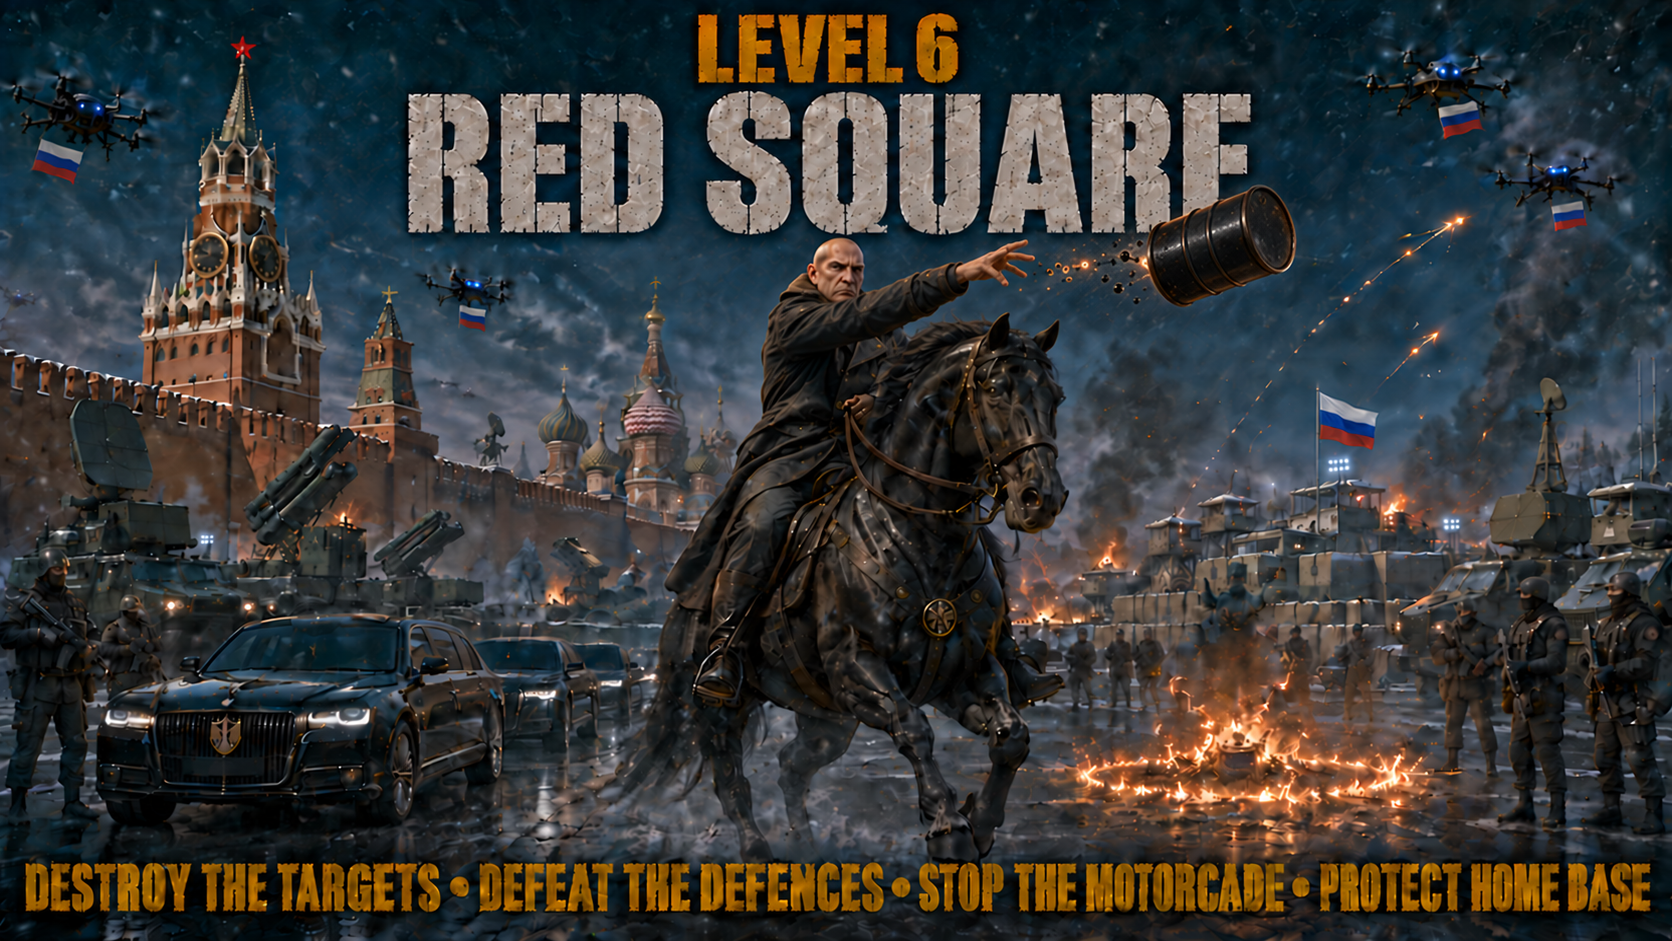
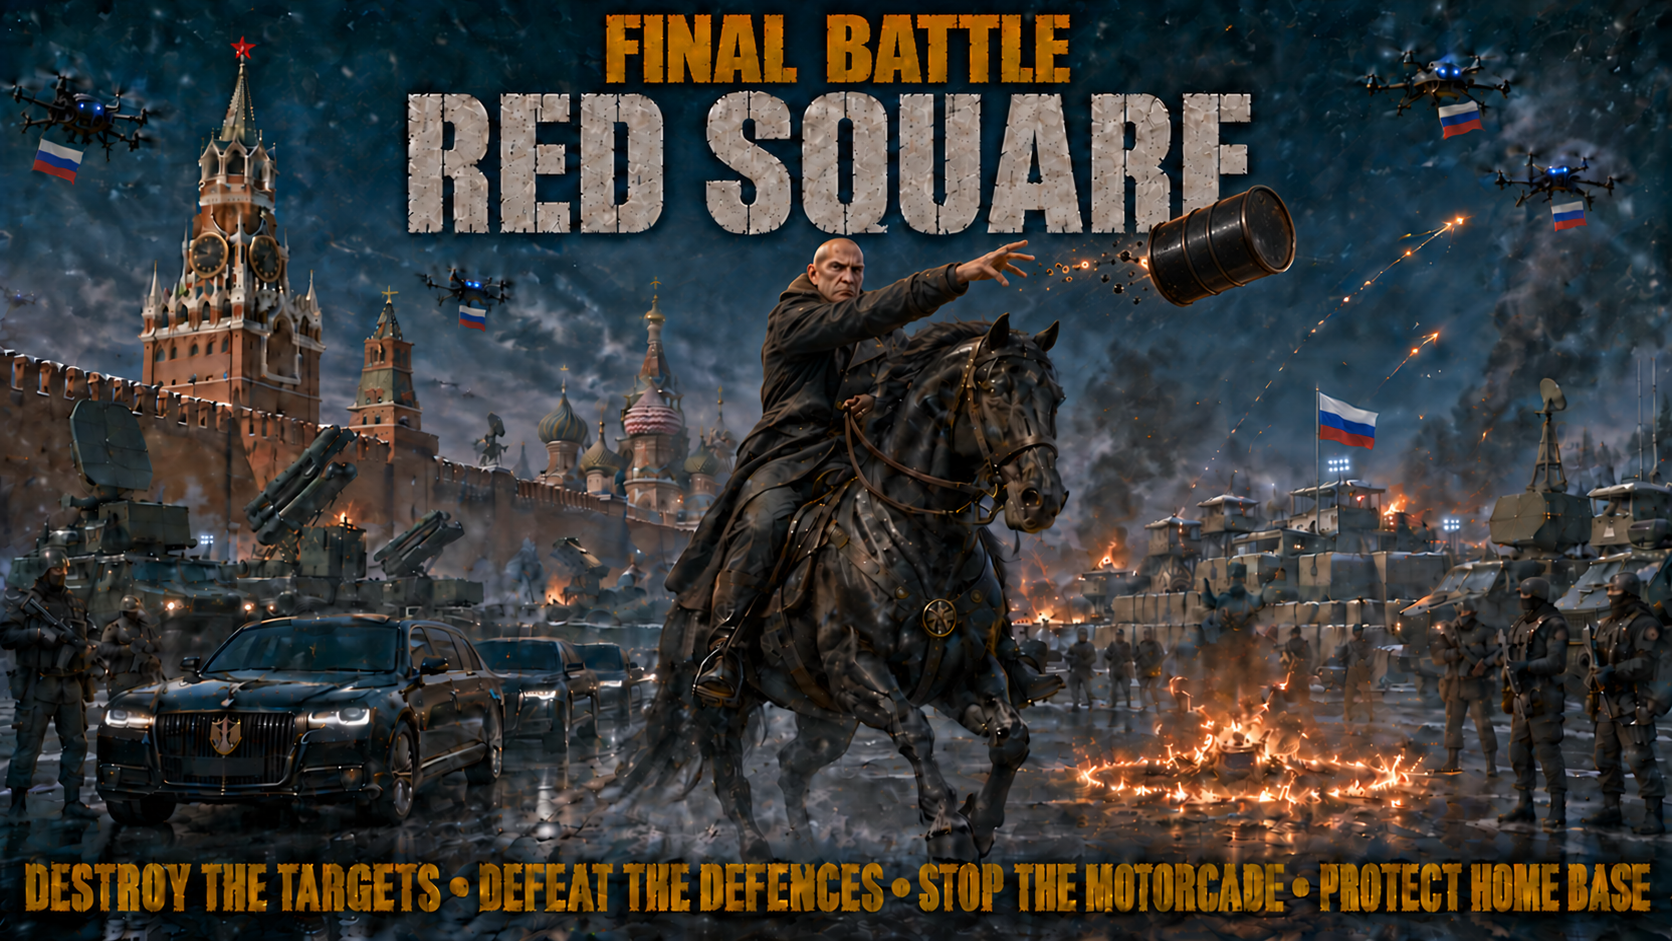
Replace Sector 6 start/complete art, add the base-lost screen image
- level-6.png/webp: new Red Square mission-briefing artwork
- Game-Complete.png/webp: new final-battle-complete artwork
- base-lost.png/webp: new artwork for the "base destroyed" screen —
  this asset never existed before, so that screen previously always
  fell back to plain text

All converted to WebP (~90% smaller: ~2.2-2.7MB PNG -> ~210-340KB)
with the PNG kept only as a <picture> fallback. Bumped cache-busting
query params (?v=1 -> ?v=2) on level-6 and added them to Game-Complete
(previously unversioned) since these assets are served with 1-year
immutable caching. Verified in a real browser that all three resolve
to the WebP via currentSrc, including base-lost.png which is set
dynamically via JS rather than static markup.

diff --git a/public/get-droned/index.html b/public/get-droned/index.html
@@ -71,8 +71,8 @@
   </div>
   <div id="levelSixIntro" class="levelIntro" aria-hidden="true">
     <picture style="display:contents">
-      <source srcset="assets/images/covers/level-6.webp?v=1" type="image/webp">
-      <img class="levelIntroImg" id="levelSixIntroImg" alt="Red Square mission briefing: Vladimir Putin" src="assets/images/covers/level-6.png">
+      <source srcset="assets/images/covers/level-6.webp?v=2" type="image/webp">
+      <img class="levelIntroImg" id="levelSixIntroImg" alt="Red Square mission briefing: Vladimir Putin" src="assets/images/covers/level-6.png?v=2">
     </picture>
     <div class="levelIntroControls"><div class="levelIntroBar" aria-hidden="true"><i></i></div></div>
   </div>
@@ -116,8 +116,8 @@
   </div>
   <div id="gameCompleteOverlay">
     <picture style="display:contents">
-      <source srcset="assets/images/covers/Game-Complete.webp" type="image/webp">
-      <img src="assets/images/covers/Game-Complete.png" alt="Mission Complete">
+      <source srcset="assets/images/covers/Game-Complete.webp?v=2" type="image/webp">
+      <img src="assets/images/covers/Game-Complete.png?v=2" alt="Mission Complete">
     </picture>
     <div class="solvedContinueWrap">
       <button class="levelIntroStart" id="gameCompleteBtn">&#9654; RETURN TO BASE</button>
@@ -146,7 +146,10 @@
   </div>
 
   <div class="ov hide" id="over">
-    <img id="baseLostArt" alt="Base lost — the fight continues" decoding="async">
+    <picture style="display:contents">
+      <source id="baseLostArtSrc" srcset="assets/images/covers/base-lost.webp" type="image/webp">
+      <img id="baseLostArt" alt="Base lost — the fight continues" decoding="async">
+    </picture>
     <h1 id="overT">K.I.A.<small id="overS">THE HOUSE HOLDS</small></h1>
     <p class="sub" id="overStats"></p>
     <button class="btn" id="retry">REDEPLOY</button>
@@ -193,6 +196,6 @@
 </script>
 
 <script src="assets/js/language.js?v=6"></script>
-<script src="assets/js/game.js?v=1790340444"></script>
+<script src="assets/js/game.js?v=1790340446"></script>
 </body>
 </html>

diff --git a/src/components/GameLanding.tsx b/src/components/GameLanding.tsx
@@ -14,7 +14,7 @@ const SECTORS = [
   { num: 3, terrain: 'Naval combat', briefing: 'Take the fight offshore. Pilot sea drones, board your gunboat and attack hostile ships while defending your coastal base. Destroy the Kerch road and rail bridge before confronting the sea boss.', name: 'BLACK SEA FLEET',  cover: '/get-droned/assets/images/covers/level-3.png?v=1' },
   { num: 4, terrain: 'Industrial assault', briefing: 'Battle through an oil refinery complex packed with tanks, pipes and industrial cover. Watch for machine-gun towers that threaten both you and your drones. Destroy all six refineries and their six patrol tanks to draw out the boss.', name: 'CRUDE INTENTIONS', cover: '/get-droned/assets/images/covers/level-4.png?v=1' },
   { num: 5, terrain: 'Winter operations', briefing: 'Push across a snow-covered airfield in winter gear. Work around aircraft, icy open ground and snow-laden trees as you close in on the boss.', name: 'MILITARY AID',   cover: '/get-droned/assets/images/covers/level-5.png?v=2' },
-  { num: 6, terrain: 'City showdown', briefing: 'Fight through city streets beneath Red Square-inspired landmarks. Break through the final defenses and face the mounted boss.', name: 'RED SQUARE',     cover: '/get-droned/assets/images/covers/level-6.png?v=1' },
+  { num: 6, terrain: 'City showdown', briefing: 'Fight through city streets beneath Red Square-inspired landmarks. Break through the final defenses and face the mounted boss.', name: 'RED SQUARE',     cover: '/get-droned/assets/images/covers/level-6.png?v=2' },
 ]
 
 const SPECS = [

diff --git a/src/components/GameSidebar.tsx b/src/components/GameSidebar.tsx
@@ -55,7 +55,7 @@ const SECTORS = [
   { num: 3, name: 'BLACK SEA FLEET',  cover: '/get-droned/assets/images/covers/level-3.png?v=1' },
   { num: 4, name: 'CRUDE INTENTIONS', cover: '/get-droned/assets/images/covers/level-4.png?v=1' },
   { num: 5, name: 'MILITARY AID',     cover: '/get-droned/assets/images/covers/level-5.png?v=2' },
-  { num: 6, name: 'RED SQUARE',     cover: '/get-droned/assets/images/covers/level-6.png?v=1' },
+  { num: 6, name: 'RED SQUARE',     cover: '/get-droned/assets/images/covers/level-6.png?v=2' },
 ]
 
 export function GameSidebar({ game, user, hasPurchased, isAdmin = false, completedSectors = [], sectorStats = {}, liveObjectives = {}, playing = false, onPlay, onBack, onPilotSettings, onReset, avatarUrl = null }: Props) {
